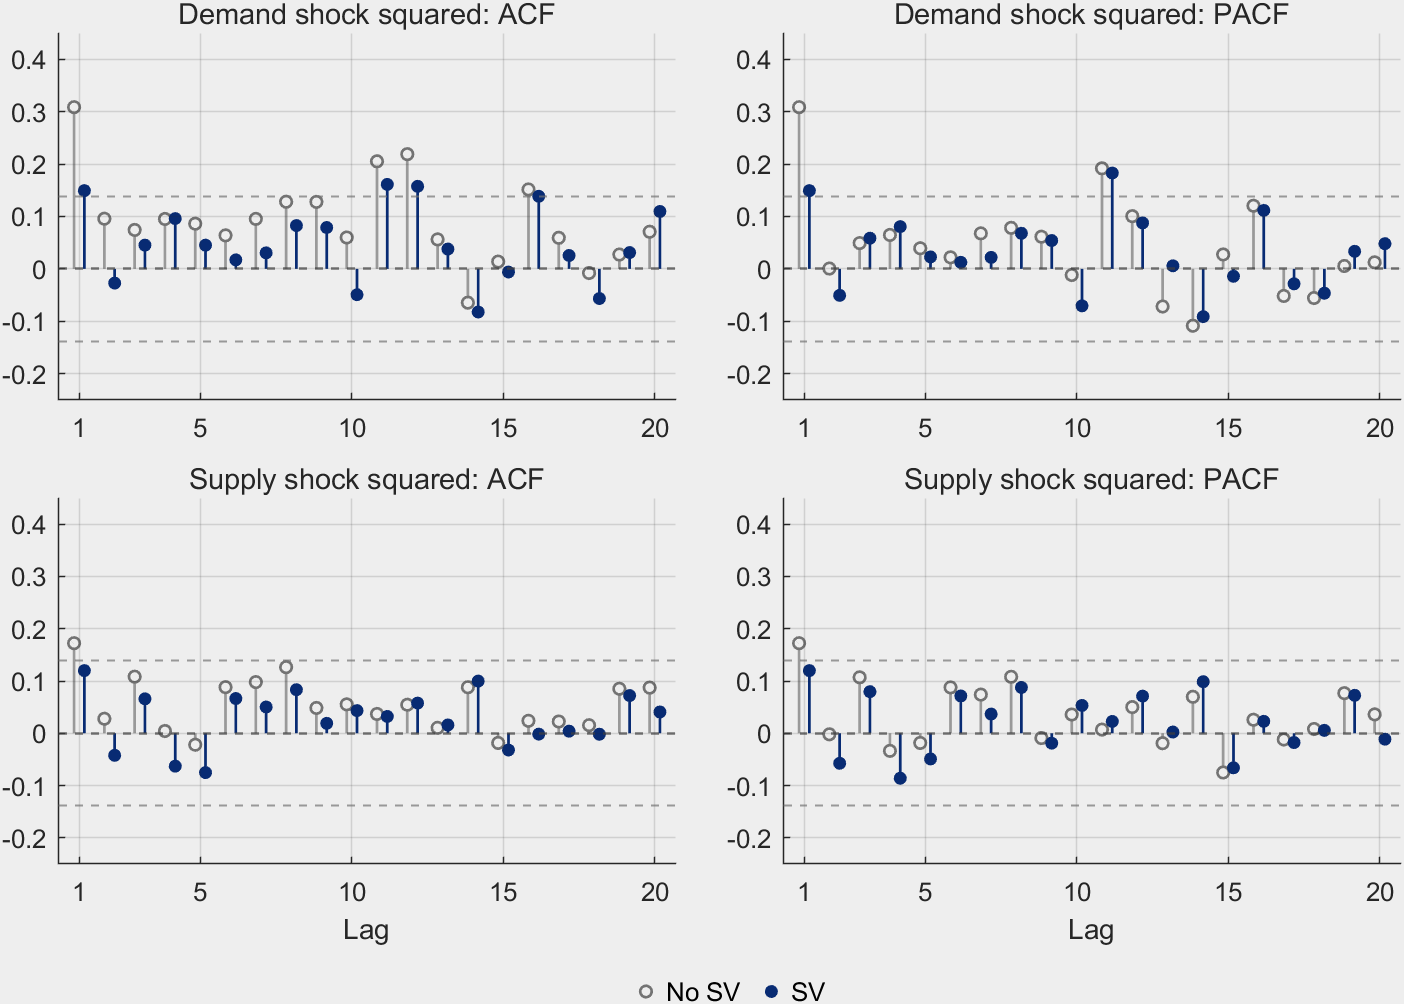
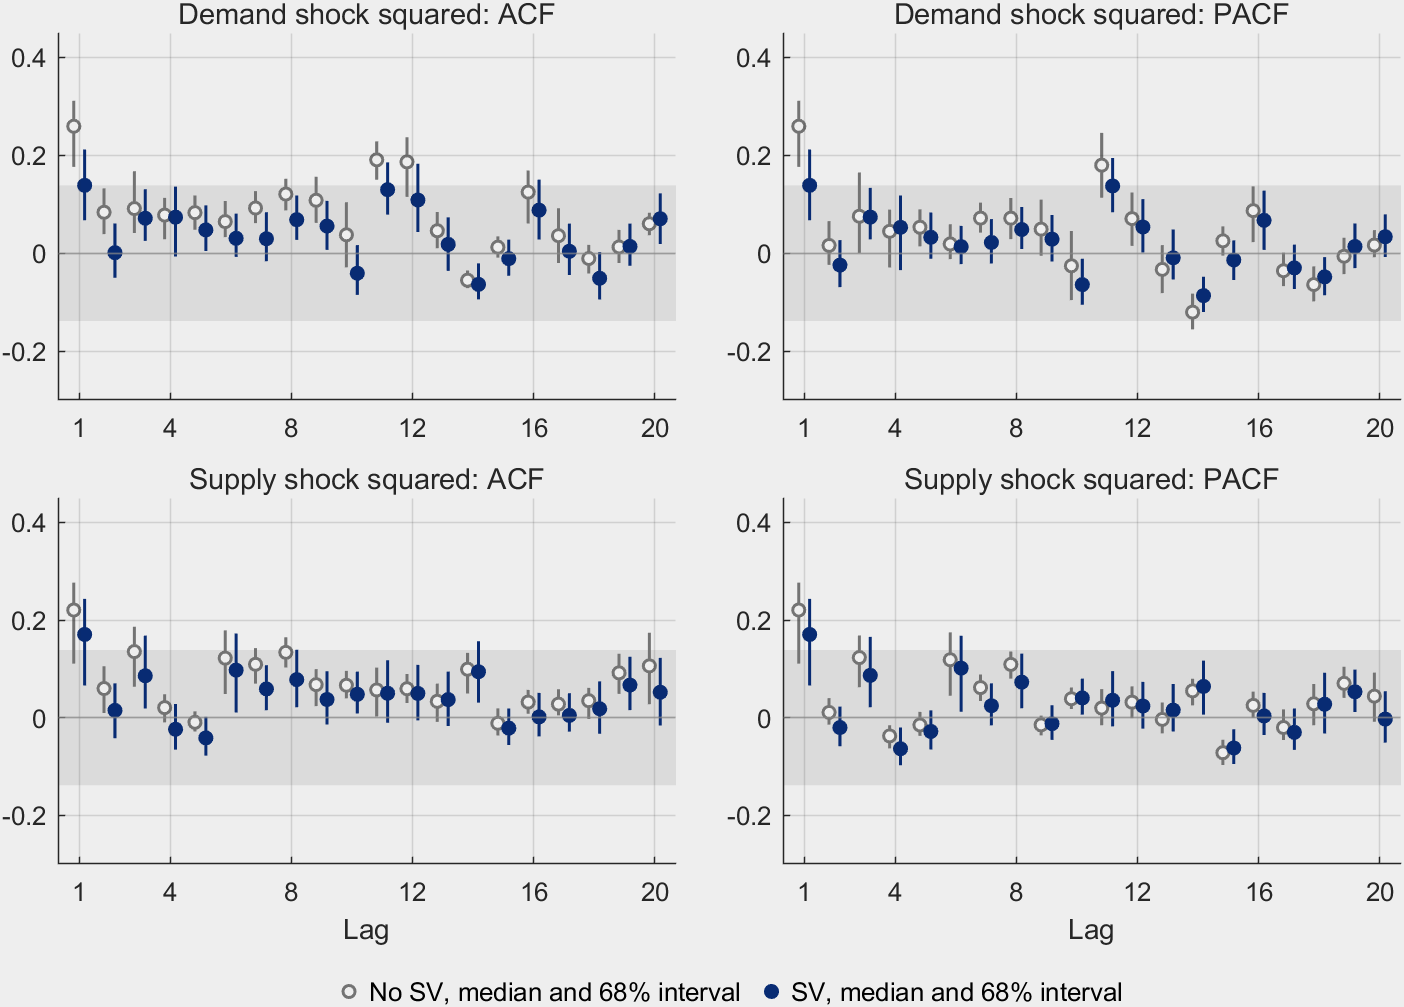
Blog BH15: draw-by-draw ACF/PACF of squared shocks with 68% intervals

diff --git a/_posts/2026-10-03-stochastic-volatility-baumeister-hamilton.md b/_posts/2026-10-03-stochastic-volatility-baumeister-hamilton.md
@@ -120,11 +120,11 @@ Wage growth is driven mostly by demand shocks, which subtract about 5.3 points i
   <figcaption><strong>Figure 6. One-standard-deviation responses of employment</strong> to a demand shock (left) and a supply shock (right), dated 2009 (high volatility) and 1995 (low volatility). Bands are 68% intervals.</figcaption>
 </figure>
 
-**Where the volatility lives.** Under homoskedasticity, the squared demand shocks are autocorrelated, the hallmark of volatility clustering: the first-order autocorrelation is 0.31 and the Ljung–Box p-value at 20 lags is below 0.001 (Figure 7). After standardizing by the volatility factor, the autocorrelation falls to 0.15 and the p-value rises to 0.05. Spikes at lags 11 and 12 remain in both models. The squared supply shocks show no significant clustering in either model.
+**Where the volatility lives.** Figure 7 shows the autocorrelations of the squared standardized shocks, computed draw by draw. Under homoskedasticity both squared shocks are autocorrelated at the first lag, the hallmark of volatility clustering, more strongly for demand: the posterior median of the first-order autocorrelation is 0.26 for demand and 0.22 for supply, and the median Ljung–Box p-values at 20 lags are below 0.001 and about 0.01. After standardizing by the volatility factor the first-order autocorrelations fall to 0.14 and 0.17, at the edge of the $$\pm 1.96/\sqrt{T}$$ bounds, and the median p-values rise to 0.09 and 0.13. The spikes at lags 11 and 12 of the demand shock fall inside the bounds. The common factor removes most of the clustering in both shocks but not all of it. More lags in the VAR would not change this: the shocks themselves, not squared, show no significant autocorrelation.
 
 <figure>
   <a href="/assets/blog/bh15-sv/acf-squared-shocks.png"><img src="/assets/blog/bh15-sv/acf-squared-shocks.png" alt="Autocorrelation and partial autocorrelation of the squared demand and supply shocks, with and without stochastic volatility"></a>
-  <figcaption><strong>Figure 7. Autocorrelation (left) and partial autocorrelation (right) of the squared structural shocks</strong>, for the demand shock (top) and the supply shock (bottom), with and without stochastic volatility. Dashed lines mark the \(\pm 1.96/\sqrt{T}\) bounds. Ljung–Box p-values at 20 lags: demand below 0.001 without and 0.05 with stochastic volatility, supply 0.28 and 0.81.</figcaption>
+  <figcaption><strong>Figure 7. Autocorrelation (left) and partial autocorrelation (right) of the squared structural shocks</strong>, for the demand shock (top) and the supply shock (bottom), with and without stochastic volatility. Posterior medians and 68% intervals across draws. The grey band marks the \(\pm 1.96/\sqrt{T}\) bounds. Median Ljung–Box p-values at 20 lags: demand below 0.001 without and 0.09 with stochastic volatility, supply 0.01 and 0.13.</figcaption>
 </figure>
 
 **A note on the sampler.** A first version of this note reported that stochastic volatility more than halved the posterior standard deviation of $$\alpha$$. That result came from the sampler, not from the model. A random walk on $$(\beta, \alpha)$$ in levels mixes slowly in the right tail of $$\alpha$$, which lies against the sign restriction at zero: in a chain of 50,000 draws the effective sample size of $$\alpha$$ was 60, and the estimated standard deviation depended on whether the chain happened to visit the tail. The random walk now runs on $$\log(-\beta)$$ and $$\log \alpha$$, with the corresponding Jacobian, so every proposal satisfies the sign restrictions, and its covariance is adapted during the burn-in (Haario, Saksman and Tamminen, 2001). With this sampler the tail appears in both models, and also with the original BH15 data, where the standard deviation of $$\alpha$$ is 0.24 with stochastic volatility and 0.22 without.
@@ -133,7 +133,7 @@ Wage growth is driven mostly by demand shocks, which subtract about 5.3 points i
 
 A single common volatility factor is a cheap addition to BH15. Given the volatility path the conjugate sampler is unchanged, and one extra block delivers the volatility. It does not relax the identification problem, and it leaves the elasticities, the variance decomposition and the historical decomposition essentially unchanged. What it adds is a measured volatility path and shock sizes that move with the state of the economy.
 
-It also leaves something on the table. The clustering lives in the demand shock, so a shock-specific volatility $$h_{it}$$ would let relative variances move over time. That would deliver identification through heteroskedasticity on top of the BH15 prior. Extending the sample beyond 2019 requires, in addition, a treatment of the COVID outliers.
+It also leaves something on the table. Part of the clustering survives the common factor in both shocks, so a shock-specific volatility $$h_{it}$$ would let relative variances move over time. That would deliver identification through heteroskedasticity on top of the BH15 prior. Extending the sample beyond 2019 requires, in addition, a treatment of the COVID outliers.
 
 ## References
 
